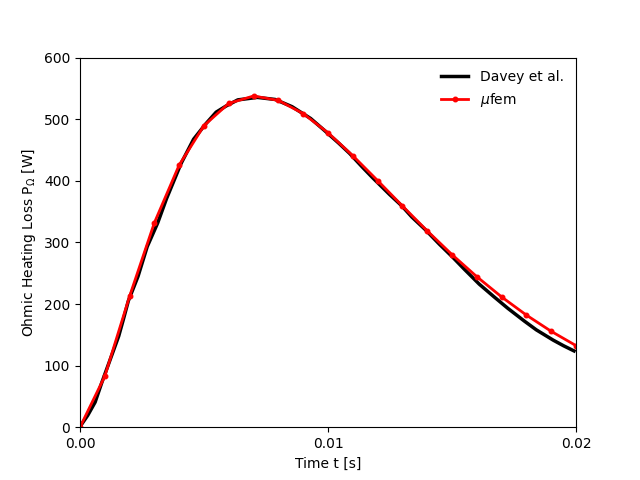
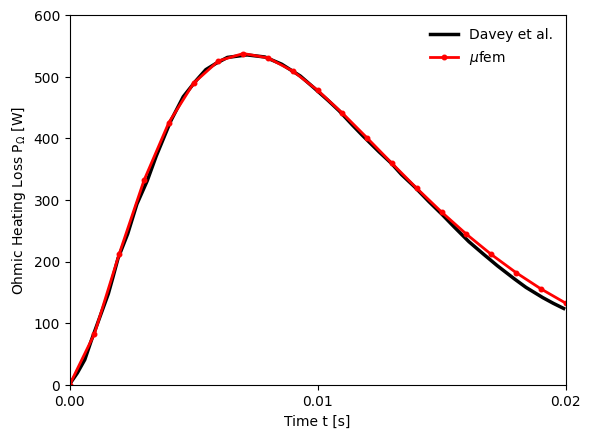
Replace pylab by matplotlib

diff --git a/Electromagnetics/Compumag-Team24-Locked-Rotor/case.py b/Electromagnetics/Compumag-Team24-Locked-Rotor/case.py
@@ -1,8 +1,9 @@
-import mufem
+import matplotlib.pyplot as plt
 import numpy
 
-from mufem import Bnd, Vol
+import mufem
 
+from mufem import Bnd, Vol
 from mufem.electromagnetics.coil import (
     CoilExcitationCurrent,
     CoilSpecification,
@@ -42,7 +43,7 @@ copper_material = TimeDomainMagneticGeneralMaterial.NonMagnetic(
 )
 copper_material.set_eddy_currents(False)
 
-bh = numpy.loadtxt(f"tables/Updated_BH_curve.csv", delimiter=",", comments="#")
+bh = numpy.loadtxt("tables/Updated_BH_curve.csv", delimiter=",", comments="#")
 
 
 iron_material = TimeDomainMagneticGeneralMaterial.MagneticNonLinear(
@@ -78,7 +79,7 @@ sim.get_model_manager().add_model(coil_model)
 coil_type = CoilTypeStranded(350)
 
 current_time = numpy.loadtxt(
-    f"tables/Table_3_Coil_Current.csv",
+    "tables/Table_3_Coil_Current.csv",
     delimiter=",",
     comments="#",
 )
@@ -118,10 +119,6 @@ sim.run()
 
 # After the simulation has run, we plot the results
 
-# flake8: noqa
-
-import pylab
-
 symmetry_factor = 2.0
 
 monitor_values = magnetic_torque_monitor.get_values()
@@ -129,21 +126,19 @@ monitor_values = magnetic_torque_monitor.get_values()
 values = [(value[0], symmetry_factor * value[1].z) for value in monitor_values]
 
 
-torque_ref = numpy.loadtxt(f"tables/Table_4_Torque.csv", delimiter=",", skiprows=1)
+torque_ref = numpy.loadtxt("tables/Table_4_Torque.csv", delimiter=",", skiprows=1)
 
-pylab.plot(torque_ref[:, 0], torque_ref[:, 1], "k-", label="Reference")
-pylab.plot(*zip(*values), "r.-", label="$\\mu$fem")
+plt.clf()
 
-pylab.xlim((0, 0.15))
-pylab.ylim((0.0, 3.5))
+plt.plot(torque_ref[:, 0], torque_ref[:, 1], "k-", label="Reference")
 
-pylab.xticks([0.0, 0.05, 0.1, 0.15])
+plt.plot(*zip(*values), "r.-", label="$\\mu$fem")
 
+plt.xlim(0, 0.15)
+plt.ylim(0.0, 3.5)
+plt.xticks([0.0, 0.05, 0.1, 0.15])
+plt.xlabel("Time t [s]")
+plt.ylabel("Torque T [Nm]")
+plt.legend(loc="best").draw_frame(False)
 
-pylab.xlabel("Time t [s]")
-pylab.ylabel("Torque T [Nm]")
-
-pylab.legend(loc="best").draw_frame(False)
-
-
-pylab.savefig(f"Time_vs_Rotor_Torque.png", bbox_inches="tight")
+plt.savefig("Time_vs_Rotor_Torque.png", bbox_inches="tight")

diff --git a/Electromagnetics/Montejo-Garai_1995_Circular_Cavity_Filter/case.py b/Electromagnetics/Montejo-Garai_1995_Circular_Cavity_Filter/case.py
@@ -1,5 +1,5 @@
+import matplotlib.pyplot as plt
 import numpy
-import pylab
 
 from mufem import Bnd, Vol, Simulation, SteadyRunner
 from mufem.electromagnetics.timeharmonicmaxwell import (
@@ -80,21 +80,21 @@ for i, frequency in enumerate(frequencies):
 # **************************************************************************************
 # Plot the results
 # **************************************************************************************
-pylab.clf()
+plt.clf()
 
 # Reference data:
 data = numpy.loadtxt("data/Montejo-Garai_1995.csv", delimiter=",")
 f_GHz = data[:, 0]
 S21_dB = data[:, 1]
-pylab.plot(f_GHz, S21_dB, "k^", label="Montejo-Garai 1995", markersize=10)
+plt.plot(f_GHz, S21_dB, "k^", label="Montejo-Garai 1995", markersize=10)
 
 # Simulated data:
 f_GHz = frequencies / 1e9
 S21_abs2 = numpy.abs(S21) ** 2
 S21_dB = 10 * numpy.log10(S21_abs2)
-pylab.plot(f_GHz, S21_dB, label="$\\mu$fem", color="red")
+plt.plot(f_GHz, S21_dB, label="$\\mu$fem", color="red")
 
-pylab.legend(loc="best", frameon=False)
-pylab.xlabel("Frequency [GHz]")
-pylab.ylabel("|S21|$^2$ [dB]")
-pylab.savefig("results/transmission_spectrum.png", bbox_inches="tight")
+plt.legend(loc="best", frameon=False)
+plt.xlabel("Frequency [GHz]")
+plt.ylabel("|S21|$^2$ [dB]")
+plt.savefig("results/transmission_spectrum.png", bbox_inches="tight")

diff --git a/Electromagnetics/Compumag-Team20-3D-Static-Force-Problem/case.py b/Electromagnetics/Compumag-Team20-3D-Static-Force-Problem/case.py
@@ -1,3 +1,4 @@
+import matplotlib.pyplot as plt
 import numpy
 
 from mufem import Bnd, Vol, SteadyRunner, CffConstantScalar, Simulation
@@ -100,11 +101,8 @@ for coil_current in numpy.linspace(0.0, 5.0, 11):
 
 
 # Plot the results
-# flake8: noqa
 
-import pylab
-
-pylab.clf()
+plt.clf()
 
 symmetry_factor = 4.0
 
@@ -112,9 +110,9 @@ calculated = numpy.array(center_piece_force_list)
 
 reference = numpy.loadtxt("data/ReferenceForce.csv", delimiter=",", comments="#")
 
-pylab.plot(reference[:, 0], reference[:, 1], "ko", label="Reference")
+plt.plot(reference[:, 0], reference[:, 1], "ko", label="Reference")
 
-pylab.plot(
+plt.plot(
     calculated[:, 0],
     symmetry_factor * calculated[:, 1],
     "ro-",
@@ -125,18 +123,15 @@ pylab.plot(
     markeredgecolor="r",
 )
 
-pylab.xlabel("Coil Current [A]")
-pylab.ylabel("Pole Force [N]")
+plt.xlabel("Coil Current [A]")
+plt.ylabel("Pole Force [N]")
 
-pylab.legend(loc="best").draw_frame(False)
+plt.legend(loc="best").draw_frame(False)
 
-pylab.xlim(0.0, 5.4)
-pylab.ylim(0, 90)
+plt.xlim(0.0, 5.4)
+plt.ylim(0, 90)
 
-pylab.savefig(
-    f"Force_vs_Current.png",
-    bbox_inches="tight",
-)
+plt.savefig("Force_vs_Current.png", bbox_inches="tight")
 
 
 # Finally, we save a few fields so we can visualize with paraview

diff --git a/Electromagnetics/Compumag-Team1b-Felix-Cylinder/case.py b/Electromagnetics/Compumag-Team1b-Felix-Cylinder/case.py
@@ -1,3 +1,6 @@
+import matplotlib.pyplot as plt
+import numpy
+
 import mufem
 
 from mufem import Bnd, Vol
@@ -58,21 +61,16 @@ sim.run()
 
 # Plot the losses
 
-# flake8: noqa
-
-import pylab
-
 monitor_values = ohmic_heating_monitor.get_values()
-
 
 values = [(value[0], value[1]) for value in monitor_values]
 
 
-pylab.clf()
+plt.clf()
 
-power_loss_reference = pylab.loadtxt("data/PowerLoss.csv", delimiter=",")
+power_loss_reference = numpy.loadtxt("data/PowerLoss.csv", delimiter=",")
 
-pylab.plot(
+plt.plot(
     power_loss_reference[:, 0],
     power_loss_reference[:, 1],
     "k-",
@@ -81,7 +79,7 @@ pylab.plot(
     markersize=6.5,
 )
 
-pylab.plot(
+plt.plot(
     *zip(*values),
     "r.-",
     label="$\\mu$fem",
@@ -89,11 +87,11 @@ pylab.plot(
     linewidth=2.0,
 )
 
-pylab.xlabel("Time t [s]")
-pylab.ylabel("Ohmic Heating Loss P$_\\Omega$ [W]")
-pylab.xlim(0, 0.02)
-pylab.xticks([0, 0.01, 0.02])
-pylab.ylim(0, 600)
-pylab.legend(loc="best").draw_frame(False)
+plt.xlabel("Time t [s]")
+plt.ylabel("Ohmic Heating Loss P$_\\Omega$ [W]")
+plt.xlim(0, 0.02)
+plt.xticks([0, 0.01, 0.02])
+plt.ylim(0, 600)
+plt.legend(loc="best").draw_frame(False)
 
-pylab.savefig(f"OhmicHeating.png")
+plt.savefig("OhmicHeating.png", bbox_inches="tight")
